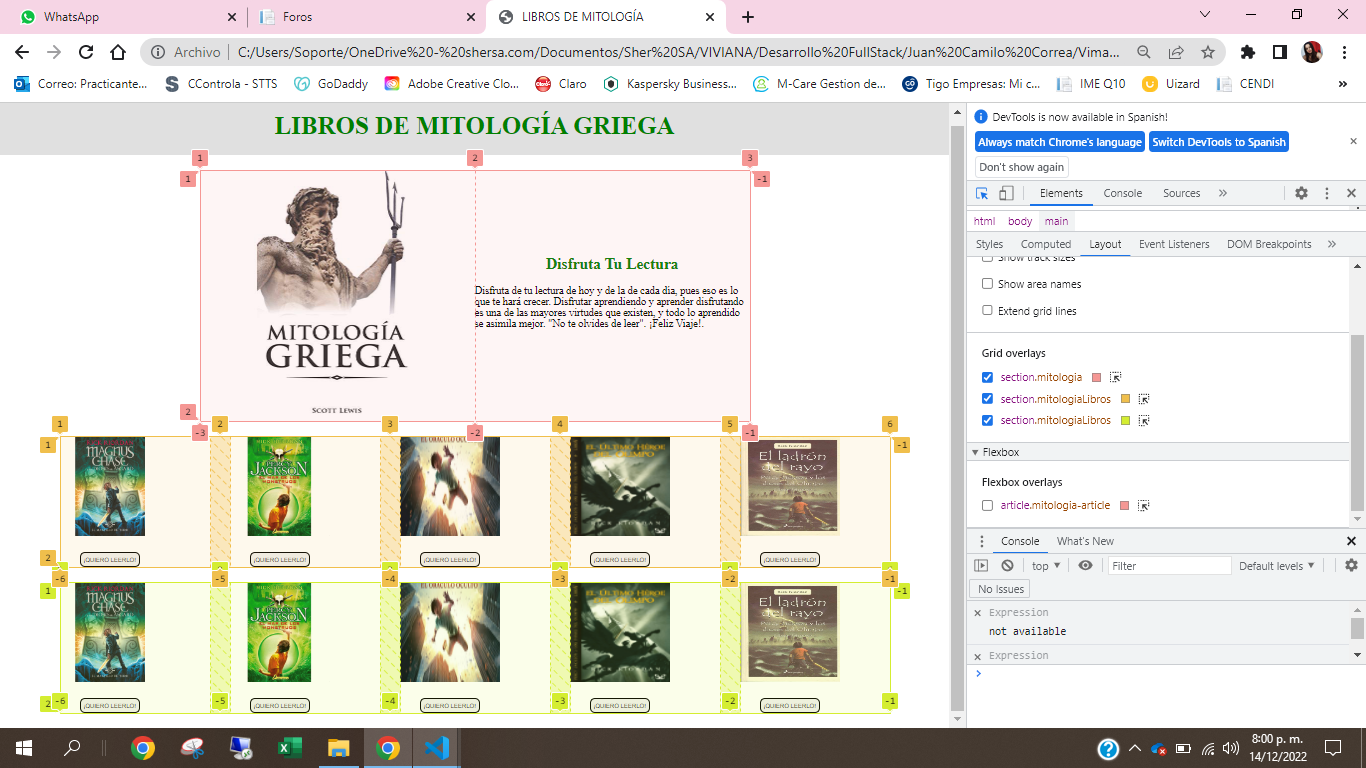
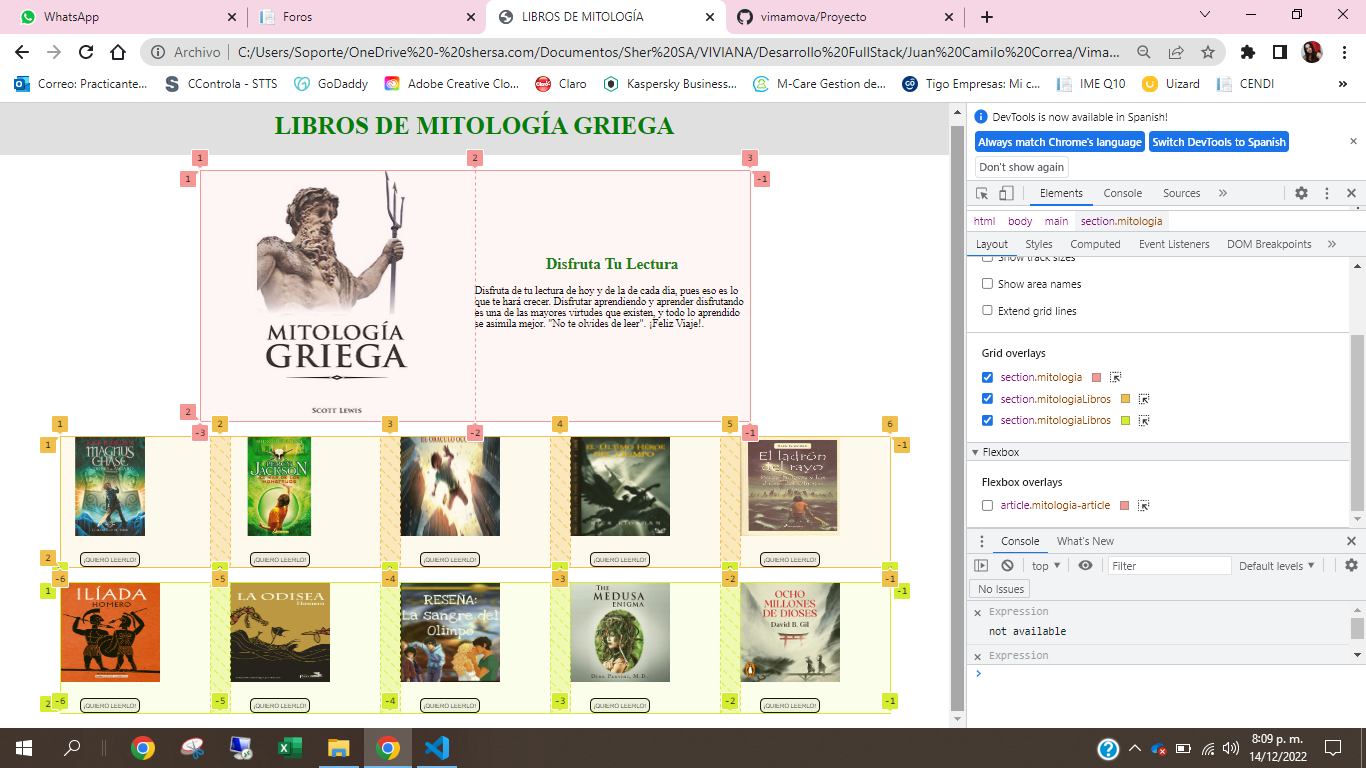
Cambios agregados

diff --git a/Reto 10/index.html b/Reto 10/index.html
@@ -48,23 +48,23 @@
 
         <section class="mitologiaLibros">
             <picture class="mitologiaLibros-picture mitologiaLibros-picture-grande">
-                <img src="./IMG/Dioses-de-Asgard.jpg " alt="">
+                <img src="./IMG/La-iliada.jpeg" alt="">
                 <button>¡QUIERO LEERLO!</button>
             </picture>
             <picture class="mitologiaLibros-picture">
-                <img src="./IMG/El-mar-de-los-monstruos_.jpg" alt="">
+                <img src="./IMG/La-odisea.jpg" alt="">
                 <button>¡QUIERO LEERLO!</button>
             </picture>
             <picture class="mitologiaLibros-picture">
-                <img src="./IMG/El-oraculo-oculto.jpg" alt="">
+                <img src="./IMG/La-sangre-del-olimpo.jpg" alt="">
                 <button>¡QUIERO LEERLO!</button>
             </picture>
             <picture class="mitologiaLibros-picture">
-                <img src="./IMG/el-ultimo-heroe-del-olimpo.png" alt="">
+                <img src="./IMG/Medusa.jpg" alt="">
                 <button>¡QUIERO LEERLO!</button>
             </picture>
             <picture class="mitologiaLibros-picture">
-                <img src="./IMG/El_ladron_del_rayo.jpg" alt="">
+                <img src="./IMG/Ocho-millones-de-dioses.jpg" alt="">
                 <button>¡QUIERO LEERLO!</button>
             </picture>
         </section>
